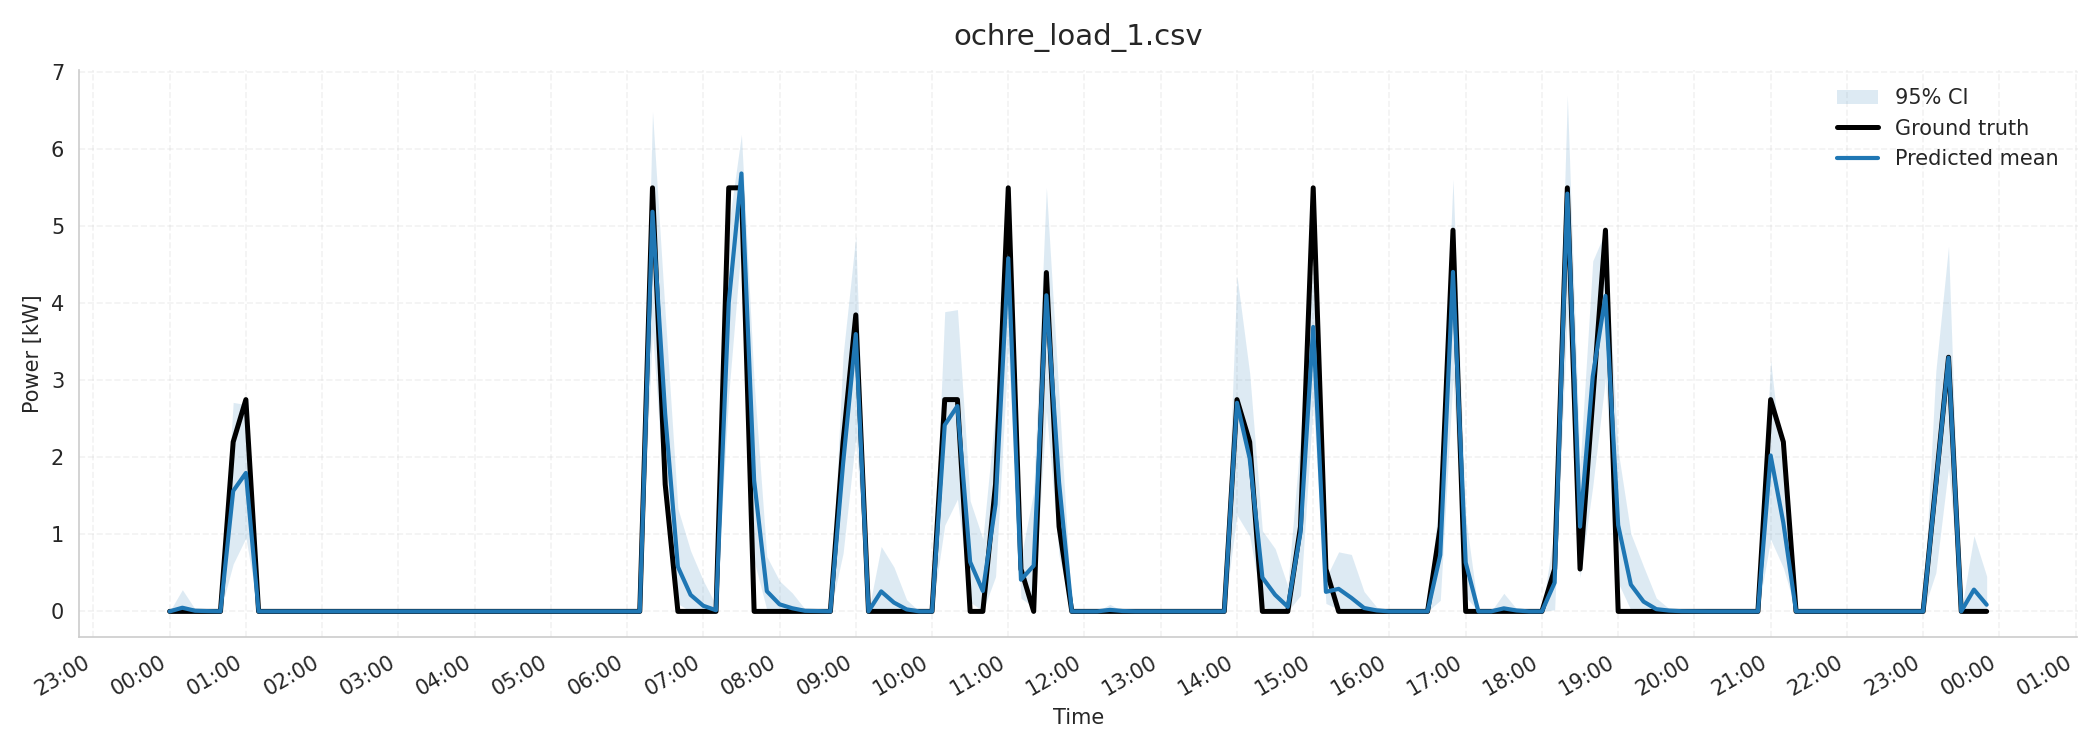
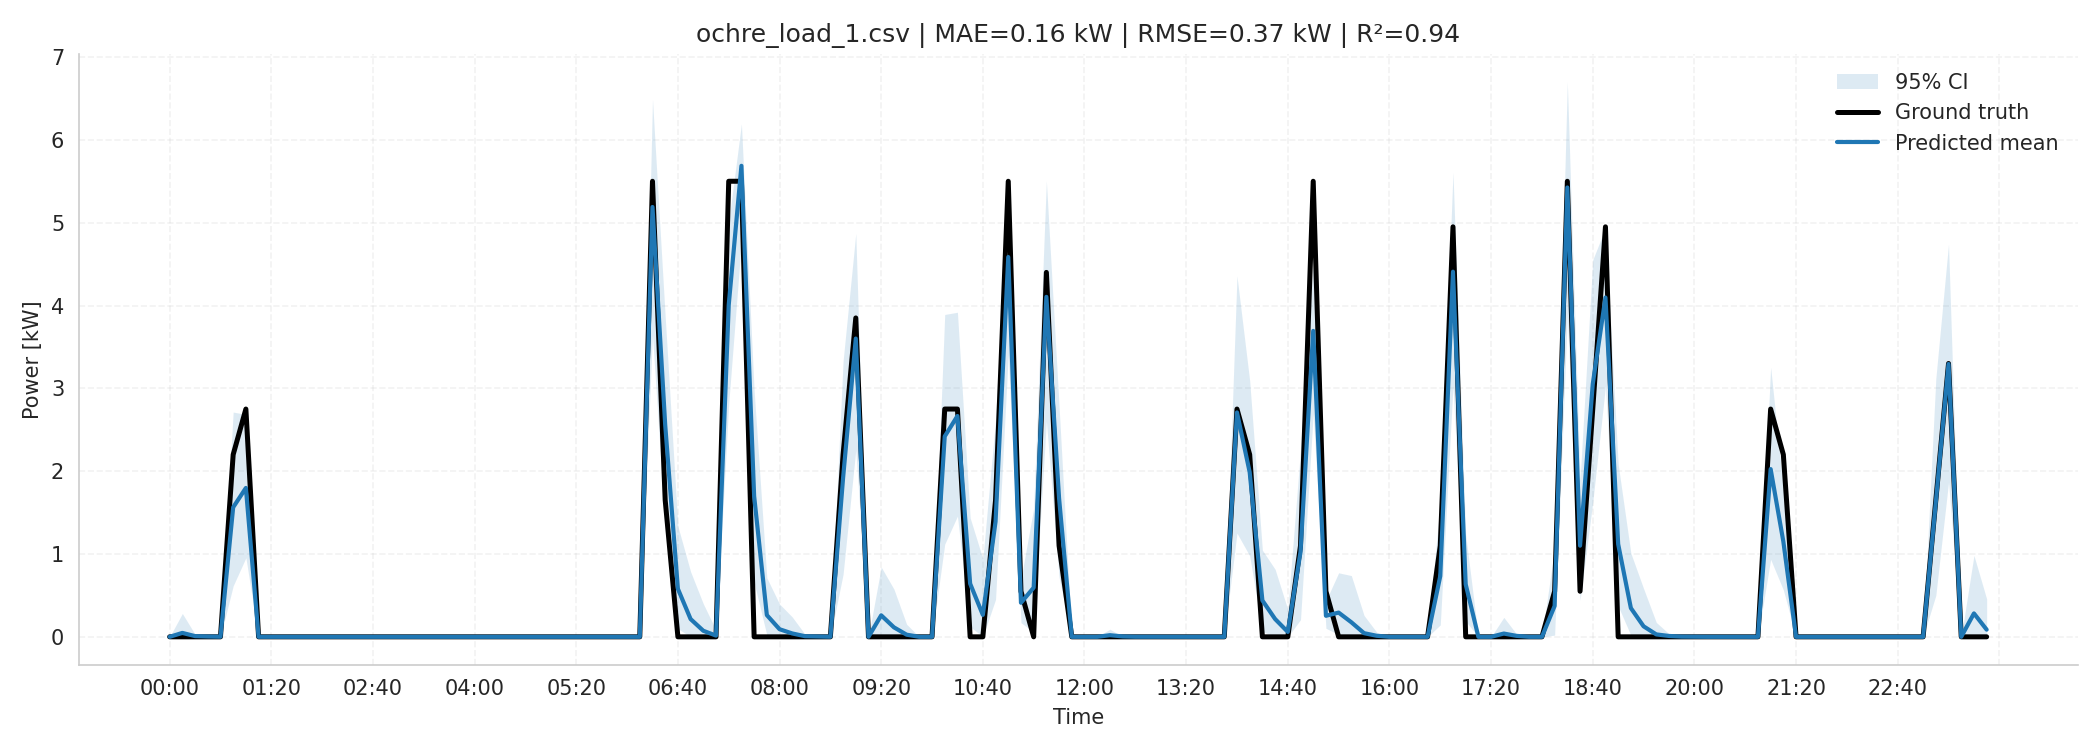
Nothing new. Just code refactoring

diff --git a/cosimulation_tools/gld-ochre-helics/cosim_using_predownloaded_files/scripts/bayesian_implementation.py b/cosimulation_tools/gld-ochre-helics/cosim_using_predownloaded_files/scripts/bayesian_implementation.py
@@ -4,8 +4,8 @@ import pandas as pd
 import seaborn as sns
 from scipy.stats import beta
 import matplotlib.pyplot as plt
-import matplotlib.dates as mdates
 import matplotlib.ticker as ticker
+from sklearn.metrics import mean_absolute_error, mean_squared_error, r2_score
 
 
 def initialize_history ():
@@ -126,7 +126,7 @@ def bayesian_implementation (df : pd.DataFrame):
 
     return history
 
-def transformer_layer_data (df : pd.DataFrame, xfmr_df : pd.DataFrame):
+def create_matrices_from_bayesian_results (df : pd.DataFrame, xfmr_df : pd.DataFrame):
     mean_matrix = pd.DataFrame (
         df['mean'].tolist (),
         index=df.index
@@ -154,7 +154,8 @@ def transformer_layer_data (df : pd.DataFrame, xfmr_df : pd.DataFrame):
 
     return kw_mean, kw_lower, kw_upper
 
-def prepare_transformer_data (df : pd.DataFrame):
+def prepare_transformer_data (transformer_file_dir : str):
+    df = pd.read_csv (f'{transformer_file_dir}residential_transformer.csv', skiprows=8)
     df = df.head (1440)
     df = cleanup_results_files (df=df, col = 'power_out')
     df = df.drop ('power_in', axis=1)
@@ -164,108 +165,109 @@ def prepare_transformer_data (df : pd.DataFrame):
 
     return df
     
+def quantifying_error_metrics (y_true, y_pred):
+    mae = round(mean_absolute_error (y_true=y_true, y_pred=y_pred), 2)
+    rmse = round(np.sqrt (mean_squared_error (y_true=y_true, y_pred=y_pred)), 2)
+    R_squared = round(r2_score (y_true=y_true, y_pred=y_pred), 2)
+    mape = round(np.mean(np.abs((y_true - y_pred) / y_true)) * 100, 2)
+    nrmse = rmse / (np.max(y_true) - np.min(y_true))
+    return mae, rmse, R_squared, mape, nrmse
 
-cosim_results_dir = '../results/wh_cosim/'
-cosim_results_files = [f for f in os.listdir (cosim_results_dir) if 'ochre' in f]
-wh_threshold = 5000.0
-hvac_threshold = 5000.0
+def vis ():
+    pass
 
-all_histories = {}
-cosim_results_df = {}
-for filename in cosim_results_files:
-    df = pd.read_csv (cosim_results_dir+filename, skiprows=8)
-    df = df.head (1440)
-    df = cleanup_results_files (df=df, col='constant_power_12')
-    df = create_binary_states (df=df, threshold=wh_threshold)
-    all_histories[filename] = bayesian_implementation (df=df)
-    cosim_results_df [filename] = df
+if __name__ == "__main__":
 
-df = pd.DataFrame (all_histories)
-df = df.transpose ()
-xfmr_demand = pd.read_csv (f'{cosim_results_dir}residential_transformer.csv', skiprows=8)
-xfmr_demand = prepare_transformer_data (df=xfmr_demand)
-kw_mean, kw_lower, kw_upper = transformer_layer_data (df=df, xfmr_df=xfmr_demand)
-time_col = pd.to_datetime(xfmr_demand ['# timestamp']).dt.strftime ('%H:%M')
+    cosim_results_dir = '../results/wh_cosim/'
+    cosim_results_files = [f for f in os.listdir (cosim_results_dir) if 'ochre' in f]
+    # I'll change those in a bit
+    wh_threshold = 5000.0
+    hvac_threshold = 5000.0
+    # Init log dict
+    all_histories = {}
+    cosim_results_df = {}
+    # loop through the GLD results from the cosim to build the log dict
+    for filename in cosim_results_files:
+        df = pd.read_csv (cosim_results_dir+filename, skiprows=8)
+        df = df.head (1440)
+        df = cleanup_results_files (df=df, col='constant_power_12')
+        df = create_binary_states (df=df, threshold=wh_threshold)
+        all_histories[filename] = bayesian_implementation (df=df)
+        cosim_results_df [filename] = df
 
-sns.set_style ('whitegrid')
-# fig, ax = plt.subplots (1,1, figsize = (16, 6))
+    df = pd.DataFrame (all_histories)
+    df = df.transpose ()
+    # Transformer information:
+    xfmr_demand = prepare_transformer_data (transformer_file_dir=cosim_results_dir)
+    # Get the bayesian results
+    kw_mean, kw_lower, kw_upper = create_matrices_from_bayesian_results (df=df, xfmr_df=xfmr_demand)
+    # prep the tiome col for the plots
+    time_col = pd.to_datetime(xfmr_demand ['# timestamp']).dt.strftime ('%H:%M')
 
-# for key, value in cosim_results_df.items ():
-#     fig, ax = plt.subplots (1,1, figsize = (16, 6))
-#     df = value.drop ('state', axis=1)
-#     df = df.set_index ('# timestamp')
-#     df = df.resample ('10min').mean()
-#     ax.plot (time_col, df['constant_power_12']/1e3, linewidth=2,
-#              color='grey', label='Ground Truth [kW]')
-#     ax.plot (time_col, kw_mean[key]/1e3, linewidth=2, color='gold', label='Mean [kW]')
-#     # ax.plot (time_col, kw_lower[key]/1e3, linewidth=1, color='gold', label = 'CI_lower')
-#     # ax.plot (time_col, kw_upper[key]/1e3, linewidth=1, color='red', label='CI_upper')
-#     lower = np.asarray(kw_lower[key], dtype=float) / 1e3
-#     upper = np.asarray(kw_upper[key], dtype=float) / 1e3
+    sns.set_style ('whitegrid')
 
-#     ax.fill_between(time_col, lower, upper, color='black', alpha=0.3, label='Confidence Interval')
-#     ax.xaxis.set_major_locator(ticker.MaxNLocator(nbins=20))
-#     ax.set_xlabel ('Time [hh:mm]')
-#     ax.set_ylabel (f'{key} [kW]')
-#     ax.legend ()
-    # plt.savefig (f'./{key}.png')
+    for key, value in cosim_results_df.items():
+        # ====================================
+        # xfmr_demand is the transformer data
+        # df is the single DER demand profile
+        # ====================================
 
-for key, value in cosim_results_df.items():
-    fig, ax = plt.subplots(figsize=(14, 5), dpi=150)
+        fig, ax = plt.subplots(figsize=(14, 5), dpi=150)
 
-    df = value.drop('state', axis=1)
-    df = df.set_index('# timestamp')
-    df.index = pd.to_datetime(df.index)
-    df = df.resample('10min').mean()
+        df = value.drop('state', axis=1)
+        df = df.set_index('# timestamp')
+        df.index = pd.to_datetime(df.index)
+        df = df.resample('10min').mean()
+        df = df.reset_index ()
 
-    x = pd.to_datetime(time_col)
-    y_true = pd.to_numeric(df['constant_power_12'], errors='coerce').to_numpy() / 1e3
-    y_mean = pd.to_numeric(kw_mean[key], errors='coerce').to_numpy() / 1e3
-    y_low  = pd.to_numeric(kw_lower[key], errors='coerce').to_numpy() / 1e3
-    y_up   = pd.to_numeric(kw_upper[key], errors='coerce').to_numpy() / 1e3
+        time_col = pd.to_datetime(xfmr_demand ['# timestamp']).dt.strftime ('%H:%M')
+        y_true = pd.to_numeric(df['constant_power_12'], errors='coerce').to_numpy() / 1e3
+        y_mean = pd.to_numeric(kw_mean[key], errors='coerce').to_numpy() / 1e3
+        y_low  = pd.to_numeric(kw_lower[key], errors='coerce').to_numpy() / 1e3
+        y_up   = pd.to_numeric(kw_upper[key], errors='coerce').to_numpy() / 1e3
+        y_pred = y_mean
 
-    # Confidence band first so it stays behind the lines
-    ax.fill_between(
-        x, y_low, y_up,
-        color='tab:blue',
-        alpha=0.15,
-        linewidth=0,
-        label='95% CI'
-    )
+        mae, rmse, R_squared, mape, nrmse = quantifying_error_metrics (
+            y_true=y_true, y_pred=y_pred
+            )
 
-    # Main lines
-    ax.plot(
-        x, y_true,
-        color='black',
-        linewidth=2.4,
-        label='Ground truth'
-    )
+        ax.fill_between(
+            time_col, y_low, y_up,
+            color='tab:blue',
+            alpha=0.15,
+            linewidth=0,
+            label='95% CI'
+        )
 
-    ax.plot(
-        x, y_mean,
-        color='tab:blue',
-        linewidth=2.0,
-        label='Predicted mean'
-    )
+        ax.plot(
+            time_col, y_true,
+            color='black',
+            linewidth=2.4,
+            label='Ground truth'
+        )
 
-    # Grid and spines
-    ax.grid(True, which='major', alpha=0.25, linestyle='--')
-    ax.spines['top'].set_visible(False)
-    ax.spines['right'].set_visible(False)
+        ax.plot(
+            time_col, y_mean,
+            color='tab:blue',
+            linewidth=2.0,
+            label='Predicted mean'
+        )
 
-    # Axis labels and title
-    ax.set_title(f'{key}', fontsize=14, pad=12)
-    ax.set_xlabel('Time')
-    ax.set_ylabel('Power [kW]')
 
-    # Time formatting
-    ax.xaxis.set_major_locator(mdates.HourLocator(interval=1))
-    ax.xaxis.set_major_formatter(mdates.DateFormatter('%H:%M'))
-    fig.autofmt_xdate()
 
-    # Legend
-    ax.legend(frameon=False, loc='upper right')
+        ax.grid(True, which='major', alpha=0.25, linestyle='--')
+        ax.spines['top'].set_visible(False)
+        ax.spines['right'].set_visible(False)
 
-    # Tight layout
-    plt.tight_layout()
-    plt.savefig (f'./{key}.png')
+        ax.set_title(
+        f"{key} | MAE={mae:.2f} kW | RMSE={rmse:.2f} kW | R²={R_squared:.2f}"
+        )
+        ax.set_xlabel('Time')
+        ax.set_ylabel('Power [kW]')
+
+        ax.xaxis.set_major_locator(ticker.MaxNLocator(nbins=20))
+
+        ax.legend(frameon=False, loc='upper right')
+
+        plt.tight_layout()
+        plt.savefig (f'./{key}.png')
